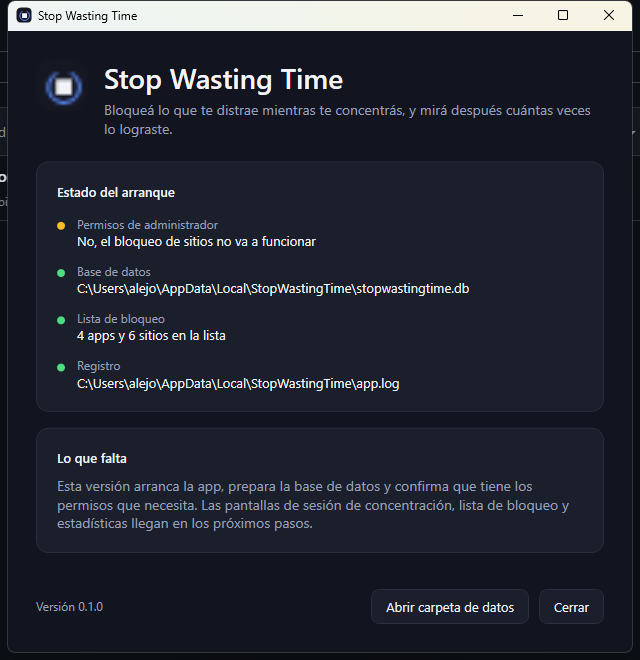
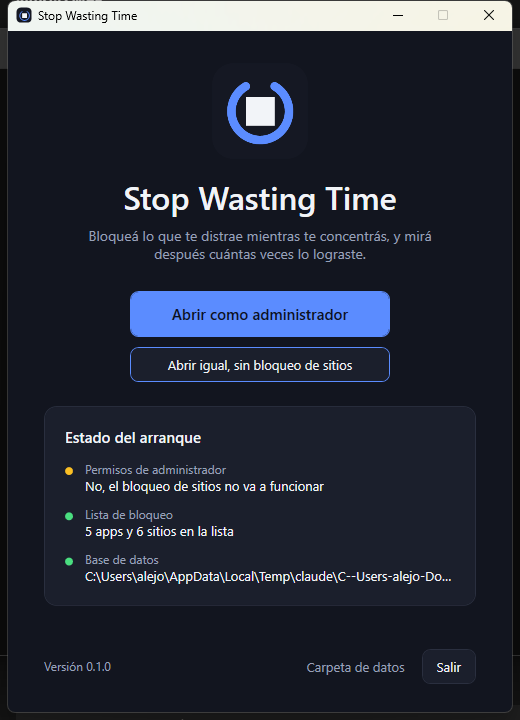
Document the project in English and add the MIT licence
Replaces the placeholder README with the whole picture: what the app does,
screenshots of every screen, how to build, run and publish it, why it needs
administrator rights, how the blocking and the statistics actually work, where
the data lives, and what it cannot do.

The limitations are stated plainly, because each one can waste someone's time:
DNS over HTTPS bypasses the hosts file and has to be switched off in the
browser, a blocked app is closed rather than paused so unsaved work is lost,
and blocking only ever applies while a session runs.

diff --git a/README.md b/README.md
@@ -1,1 +1,194 @@
-# Stop_wasting_time
+# Stop Wasting Time
+
+A Windows desktop app that closes the apps and blocks the sites that distract you for as long as you
+decide to concentrate, and then shows you how often you actually did it.
+
+You pick a duration, press start, and for that stretch Steam, Instagram, TikTok and whatever else is on
+your list simply will not open. Your browser keeps working: only the listed sites stop resolving, so you
+can still look things up while you work. When the time is up everything comes back on its own, and the
+session is recorded — per day, per week, per month and per year.
+
+![The launcher](docs/launcher.png)
+
+## Features
+
+- **Timed focus sessions.** 25, 45, 60 or 90 minutes, or any number you type in.
+- **Strict sessions.** An optional switch per session: while it runs the session cannot be cancelled and
+  the app cannot be closed.
+- **App blocking.** Programs on your list are closed a second after they open, for as long as the session
+  lasts. System processes are never touched, no matter what you put on the list.
+- **Site blocking.** Listed domains are pointed at `0.0.0.0` in the Windows hosts file while the session
+  runs, and the file is restored afterwards. The browser itself is left alone.
+- **A distraction counter.** Every blocked attempt is recorded, so you can see what tempts you and how
+  often.
+- **Statistics.** Sessions completed, time focused, average session, current streak and blocked
+  distractions, with a bar chart per period and a year heatmap.
+- **Tray icon.** Closing the window during a session sends the app to the tray instead of quietly
+  unblocking everything.
+- **Crash recovery.** If the app is killed mid session, the next launch closes that session as abandoned
+  and removes the hosts block, so a crash can never leave sites blocked forever.
+
+| Focus | Blocklist | Statistics |
+|---|---|---|
+| ![Focus screen](docs/focus.png) | ![Blocklist screen](docs/blocklist.png) | ![Statistics screen](docs/stats.png) |
+
+## Requirements
+
+- Windows 10 or 11 (x64).
+- [.NET 10 SDK](https://dotnet.microsoft.com/download) to build it, or just the .NET 10 Desktop Runtime to
+  run a framework dependent build. A self contained build needs neither.
+- **Administrator rights.** The app manifest asks Windows for them at launch. They are needed to edit the
+  hosts file and to close programs the app did not start. Without them the app still runs and still
+  blocks apps, but it says plainly that site blocking will not work.
+
+## Getting started
+
+Clone the repository and start it:
+
+```
+run.cmd
+```
+
+That builds the app and launches it. Windows will ask for administrator rights.
+
+To get an executable you can keep:
+
+```
+powershell -ExecutionPolicy Bypass -File scripts/publish.ps1
+```
+
+This writes `publish\StopWastingTime.exe`, self contained (~130 MB, runs on any Windows x64 machine
+without installing .NET). Add `-FrameworkDependent` for a ~4 MB executable that needs the .NET 10 Desktop
+Runtime installed.
+
+Then, if you want it on the desktop:
+
+```
+powershell -ExecutionPolicy Bypass -File scripts/create-shortcut.ps1
+```
+
+### Using it
+
+1. The launcher shows what it managed to set up and one button to open the app. When you are not running
+   as administrator, that button restarts the app elevated instead.
+2. On **Bloqueos**, pick the apps and sites to block. The app list offers the programs running right now,
+   so you do not have to know executable names, and you can also type one. Sites take anything you paste:
+   `https://www.instagram.com/explore` becomes `instagram.com`.
+3. On **Enfoque**, choose a duration, optionally tick *sesión estricta*, and start.
+4. **Estadísticas** shows how it went, by day, week, month or year.
+
+## How it works
+
+```
+FocusSessionService  ── starts/stops ──►  BlockingCoordinator
+        │                                      │
+        │ stores the session                   ├─► ProcessBlocker    sweeps the process list once a
+        ▼                                      │                     second and closes what matches
+   SQLite database                             │
+   (sessions, rules, hits)                     └─► HostsFileBlocker  writes a marked block into the
+                                                                     Windows hosts file
+```
+
+- **A session is stored as `Running` before anything else happens.** If the machine dies mid session the
+  attempt is not lost, and the next launch knows it has cleaning up to do.
+- **Elapsed time comes from the clock, not from counting ticks.** A missed timer tick or a sleeping
+  laptop cannot buy extra minutes or lose them.
+- **Apps are blocked by polling.** A one second sweep of the process list is cheap, needs no driver, and
+  catches a program a moment after it opens. `ProcessNames.Protected` lists the processes that are never
+  closed — `explorer`, `csrss`, `lsass`, the app itself and the rest — so a blocklist entry can never
+  leave Windows unusable.
+- **Sites are blocked through the hosts file**, between `# >>> Stop Wasting Time >>>` and
+  `# <<< Stop Wasting Time <<<` markers. Anything else in that file is left exactly as it was, the
+  original is backed up to `hosts.backup` before the first change, and the block is removed when the
+  session ends. Building that text is a pure function, `HostsFileEditor`, covered by its own tests,
+  because it is the one piece that could damage a system file.
+- **Sessions store the local calendar date next to the UTC instant.** Grouping by day, week or month is
+  then a plain `GROUP BY` instead of time zone arithmetic in SQL, and the numbers match the calendar you
+  actually live in.
+- **Focused time counts abandoned sessions too** — an abandoned 20 minute session was still 20 minutes of
+  focus. Completed and abandoned are counted separately.
+- **A streak survives today.** Not having focused yet today does not break it; the count ends yesterday,
+  so a streak only dies after a full day without focus.
+
+## Project structure
+
+```
+StopWastingTime.slnx
+├─ src/StopWastingTime.Core/          net10.0          Domain, storage, blocking, statistics
+│  ├─ Models/                                          Sessions, rules, blocked attempts
+│  ├─ Data/                                            SQLite schema and repositories
+│  ├─ Blocking/                                        Process watcher, hosts file editor, coordinator
+│  ├─ Sessions/                                        The session state machine
+│  └─ Stats/                                           Day/week/month/year aggregation
+├─ src/StopWastingTime.App/           net10.0-windows  WPF user interface
+│  ├─ Views/                                           Launcher, shell, the three screens, toast
+│  ├─ ViewModels/                                      One per screen, MVVM
+│  ├─ Controls/                                        The countdown ring
+│  ├─ Infrastructure/                                  Elevation, logging, single instance
+│  └─ Themes/                                          Palette and control styles
+├─ tests/StopWastingTime.Core.Tests/  net10.0          xUnit
+└─ scripts/                                            Run, publish, shortcut, icon generation
+```
+
+Everything that could go wrong quietly — editing the hosts file, matching process names, aggregating
+statistics, the session state machine — lives in `Core` behind interfaces, so it is tested without
+opening a window or touching the system.
+
+## Configuration and data
+
+Everything the app stores lives in `%LOCALAPPDATA%\StopWastingTime`:
+
+| File | What it is |
+|---|---|
+| `stopwastingtime.db` | SQLite database: sessions, blocklist, blocked attempts |
+| `hosts.backup` | The hosts file as it was before the app ever changed it |
+| `app.log` | Startup and session log. A windowed app has no console, so this is where a failed launch explains itself |
+
+Set `SWT_DATA_DIR` to put that folder somewhere else — useful for trying the app against a throwaway
+profile, or for keeping it on a portable drive:
+
+```
+set SWT_DATA_DIR=D:\swt-profile
+```
+
+To start over, close the app and delete the database. The blocklist is seeded again on the next launch.
+
+## Development
+
+```
+dotnet build StopWastingTime.slnx -c Release
+```
+
+```
+dotnet test StopWastingTime.slnx
+```
+
+The icon is generated rather than committed as an opaque binary, so its shape and palette stay editable:
+
+```
+powershell -ExecutionPolicy Bypass -File scripts/generate-icon.ps1
+```
+
+## Known limitations
+
+- **DNS over HTTPS bypasses the hosts file.** Chrome's *Secure DNS* and Firefox's DoH resolve names
+  themselves, which the hosts file cannot intercept. Turn it off (Chrome: *Settings → Privacy and
+  security → Security → Use secure DNS*) for site blocking to work.
+- **A blocked app is closed, not paused.** Anything unsaved in it is lost. That is why blocking only
+  happens during a session, and why system processes are protected.
+- **Blocking only applies while a session runs.** Outside a session nothing is touched: this is a focus
+  tool, not a permanent filter.
+- **Administrator rights are all or nothing.** Without them the app blocks programs it has permission to
+  close and tells you site blocking is off.
+- **Windows only.** The blocking is built on the Windows process list and the Windows hosts file.
+
+## Roadmap
+
+- Blocklist profiles (study, work, evening) instead of one list.
+- Scheduled sessions at fixed times of day.
+- Exporting the statistics.
+- An installer, so it does not have to be published by hand.
+
+## License
+
+MIT. See [LICENSE](LICENSE).
